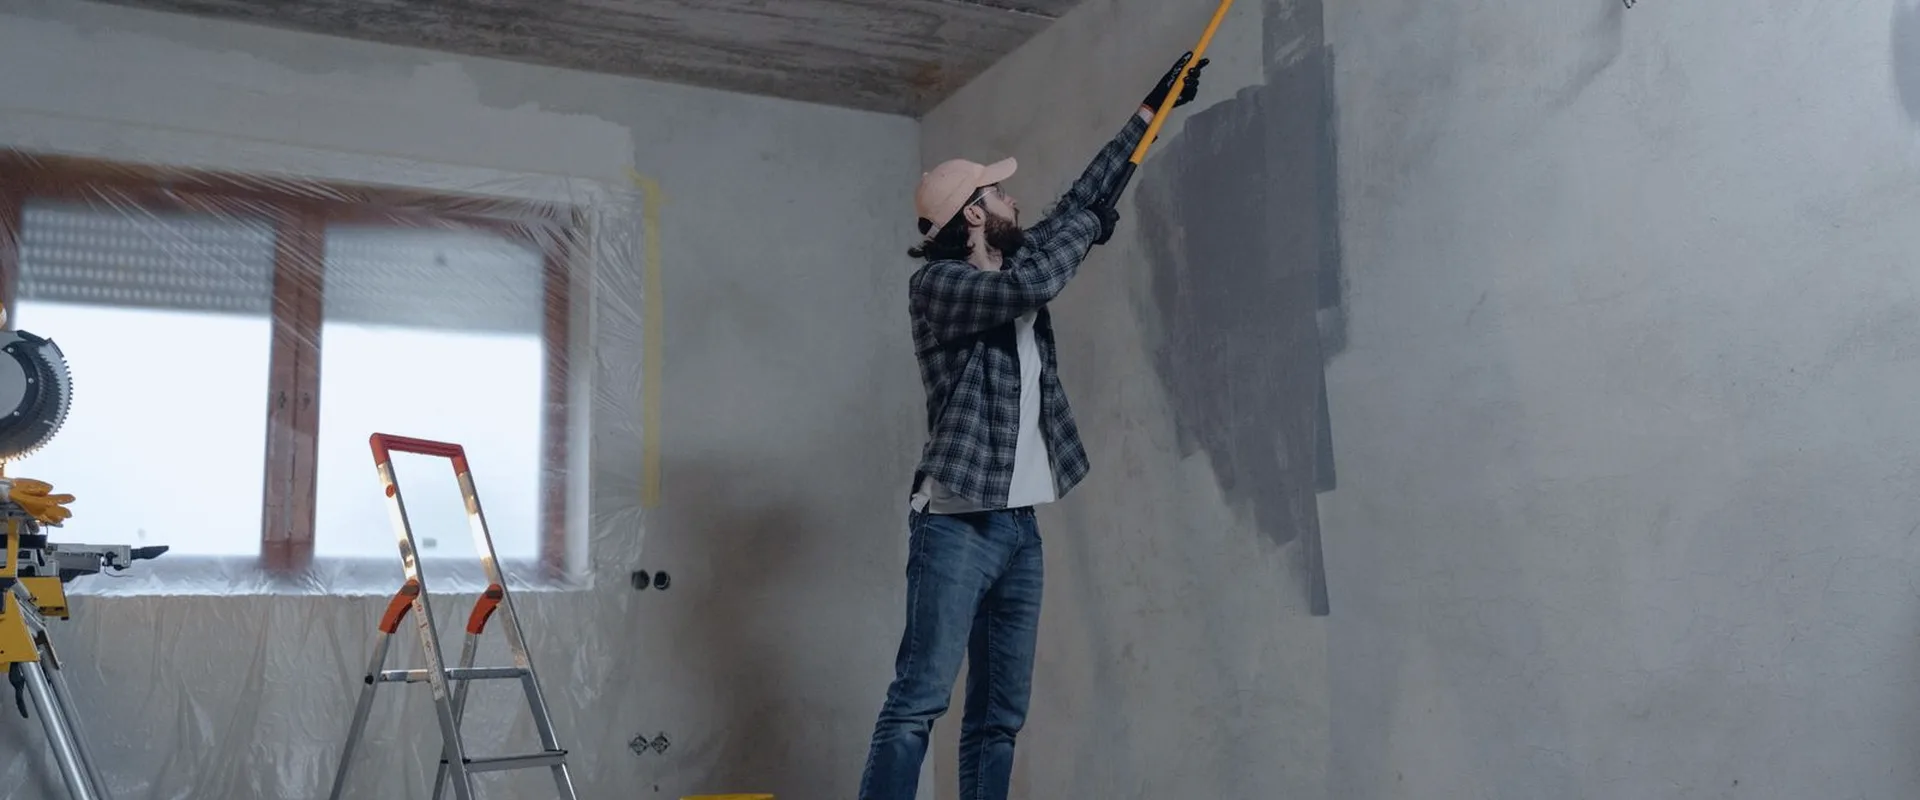
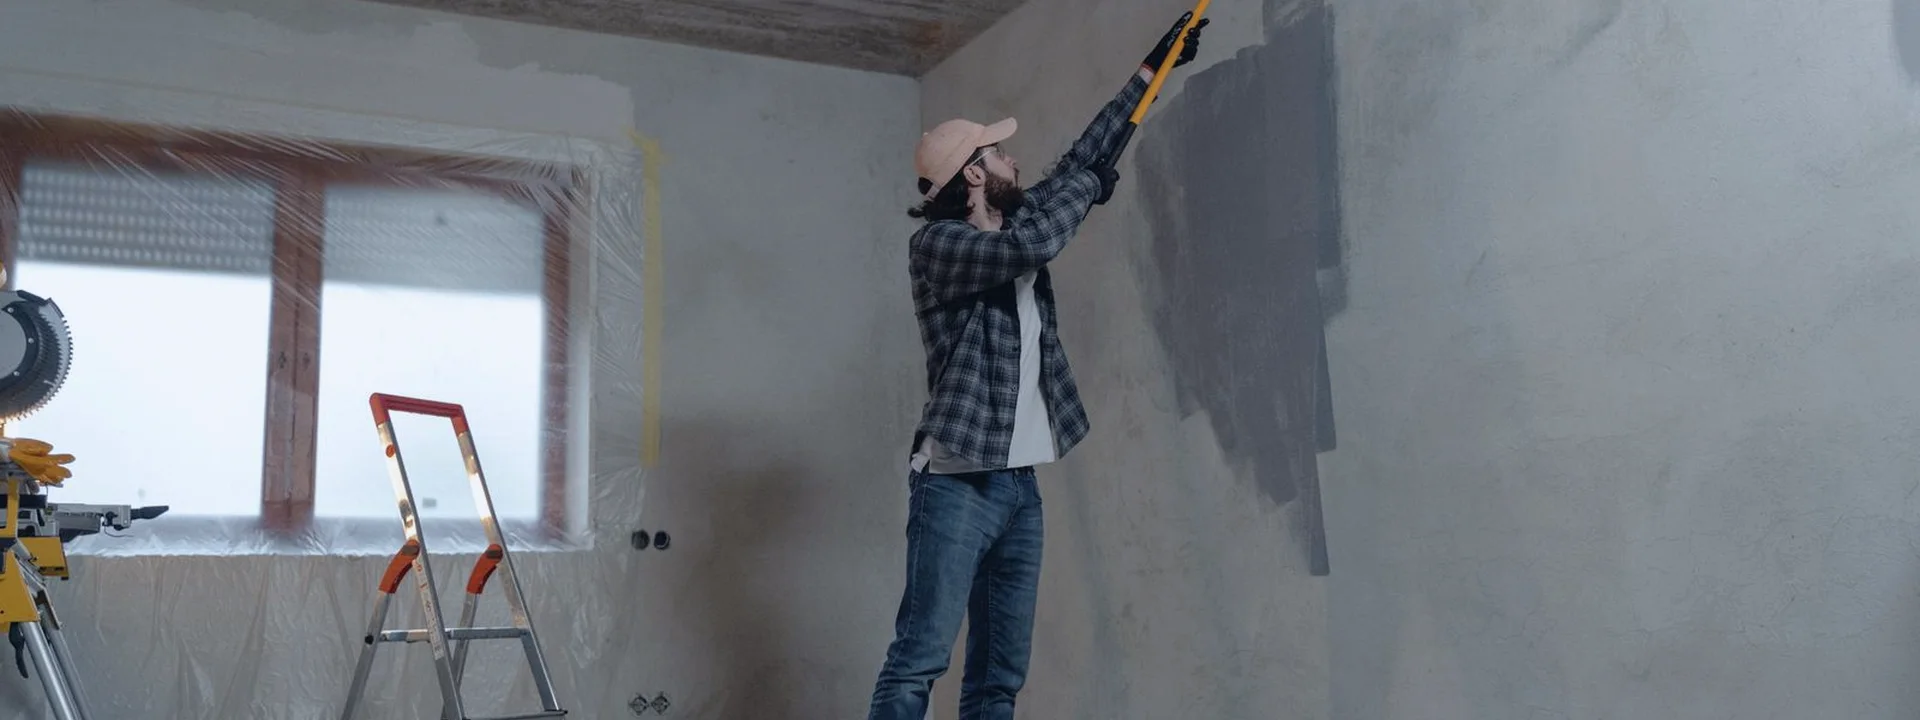
Hero trang chủ full-bleed kiểu vesinh4 (ảnh bleed + panel tràn mép).

diff --git a/src/styles/global.css b/src/styles/global.css
@@ -580,3 +580,69 @@ footer.site .footer-hub { margin-top: 0.75rem; font-size: 0.8rem; opacity: 0.85;
   box-shadow: 0 8px 24px rgba(0, 0, 0, 0.12);
   border-radius: 12px;
 }
+
+/* Hero full-bleed vesinh4 (Zen 13/09) */
+.hero-split-section.hero-bleed {
+  width: 100vw;
+  max-width: 100%;
+  margin-left: calc(50% - 50vw);
+  margin-right: calc(50% - 50vw);
+  padding: 0;
+}
+.hero-bleed .hero-split {
+  display: grid;
+  grid-template-columns: 1fr;
+  gap: 0;
+  width: 100%;
+  min-height: 18rem;
+}
+.hero-bleed .hero-visual {
+  margin: 0;
+  min-height: 16rem;
+  max-height: none;
+  border-radius: 0;
+  overflow: hidden;
+}
+.hero-bleed .hero-visual img {
+  width: 100%;
+  height: 100%;
+  min-height: 16rem;
+  max-height: none;
+  object-fit: cover;
+  object-position: center 30%;
+  border-radius: 0;
+}
+.hero-bleed .hero-panel {
+  background: linear-gradient(165deg, #1E63D6 0%, #0F2D52 70%);
+  padding: 1.75rem 1.25rem 2rem;
+  display: flex;
+  flex-direction: column;
+  justify-content: center;
+}
+@media (min-width: 720px) {
+  .hero-bleed .hero-split {
+    grid-template-columns: 1.65fr 1fr;
+    min-height: 26rem;
+    align-items: stretch;
+  }
+  .hero-bleed .hero-visual,
+  .hero-bleed .hero-visual img {
+    min-height: 26rem;
+    height: 100%;
+  }
+  .hero-bleed .hero-panel {
+    padding: 2.25rem 2rem;
+  }
+}
+@media (min-width: 1100px) {
+  .hero-bleed .hero-split {
+    grid-template-columns: 1.85fr 1fr;
+    min-height: 28rem;
+  }
+  .hero-bleed .hero-visual,
+  .hero-bleed .hero-visual img {
+    min-height: 28rem;
+  }
+}
+
+.sr-only { position:absolute;width:1px;height:1px;padding:0;margin:-1px;overflow:hidden;clip:rect(0,0,0,0);white-space:nowrap;border:0; }
